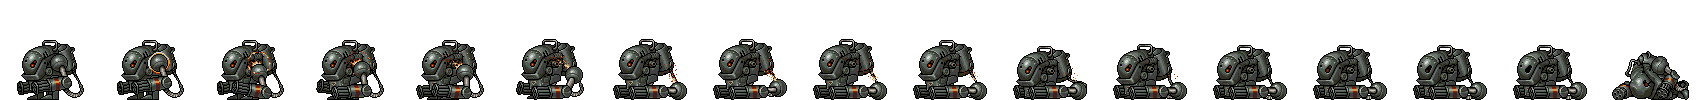
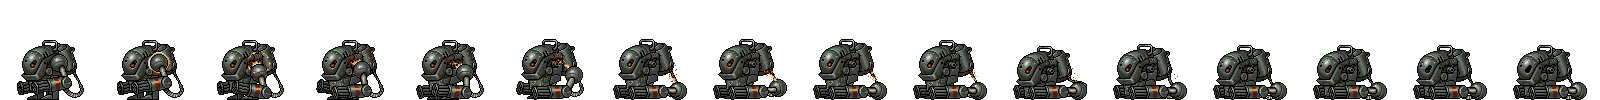
Modification de l'image chaingun-robot-destroyed.

diff --git a/client/src/js/sprite/ChaingunRobotDestroyed.js b/client/src/js/sprite/ChaingunRobotDestroyed.js
@@ -7,7 +7,7 @@ export let outDestroyedRobot;
 
 export class ChaingunRobotDestroyed{
     constructor(robotX, robotY, marcoX, marcoY) {
-        let colCount = 17;
+        let colCount = 16;
         let rowCount = 1;
         let refreshDelay = 100;
         let loopColumns = true;
@@ -32,7 +32,7 @@ export class ChaingunRobotDestroyed{
             scale,
             this.nodeChaingunRobotDestroyed
         );
-        this.TiledImageChaingunRobotDestroyed.changeMinMaxInterval(0, 16);
+        this.TiledImageChaingunRobotDestroyed.changeMinMaxInterval(0, 15);
 
         // Stop la boucle
         this.TiledImageChaingunRobotDestroyed.setLooped(false);
